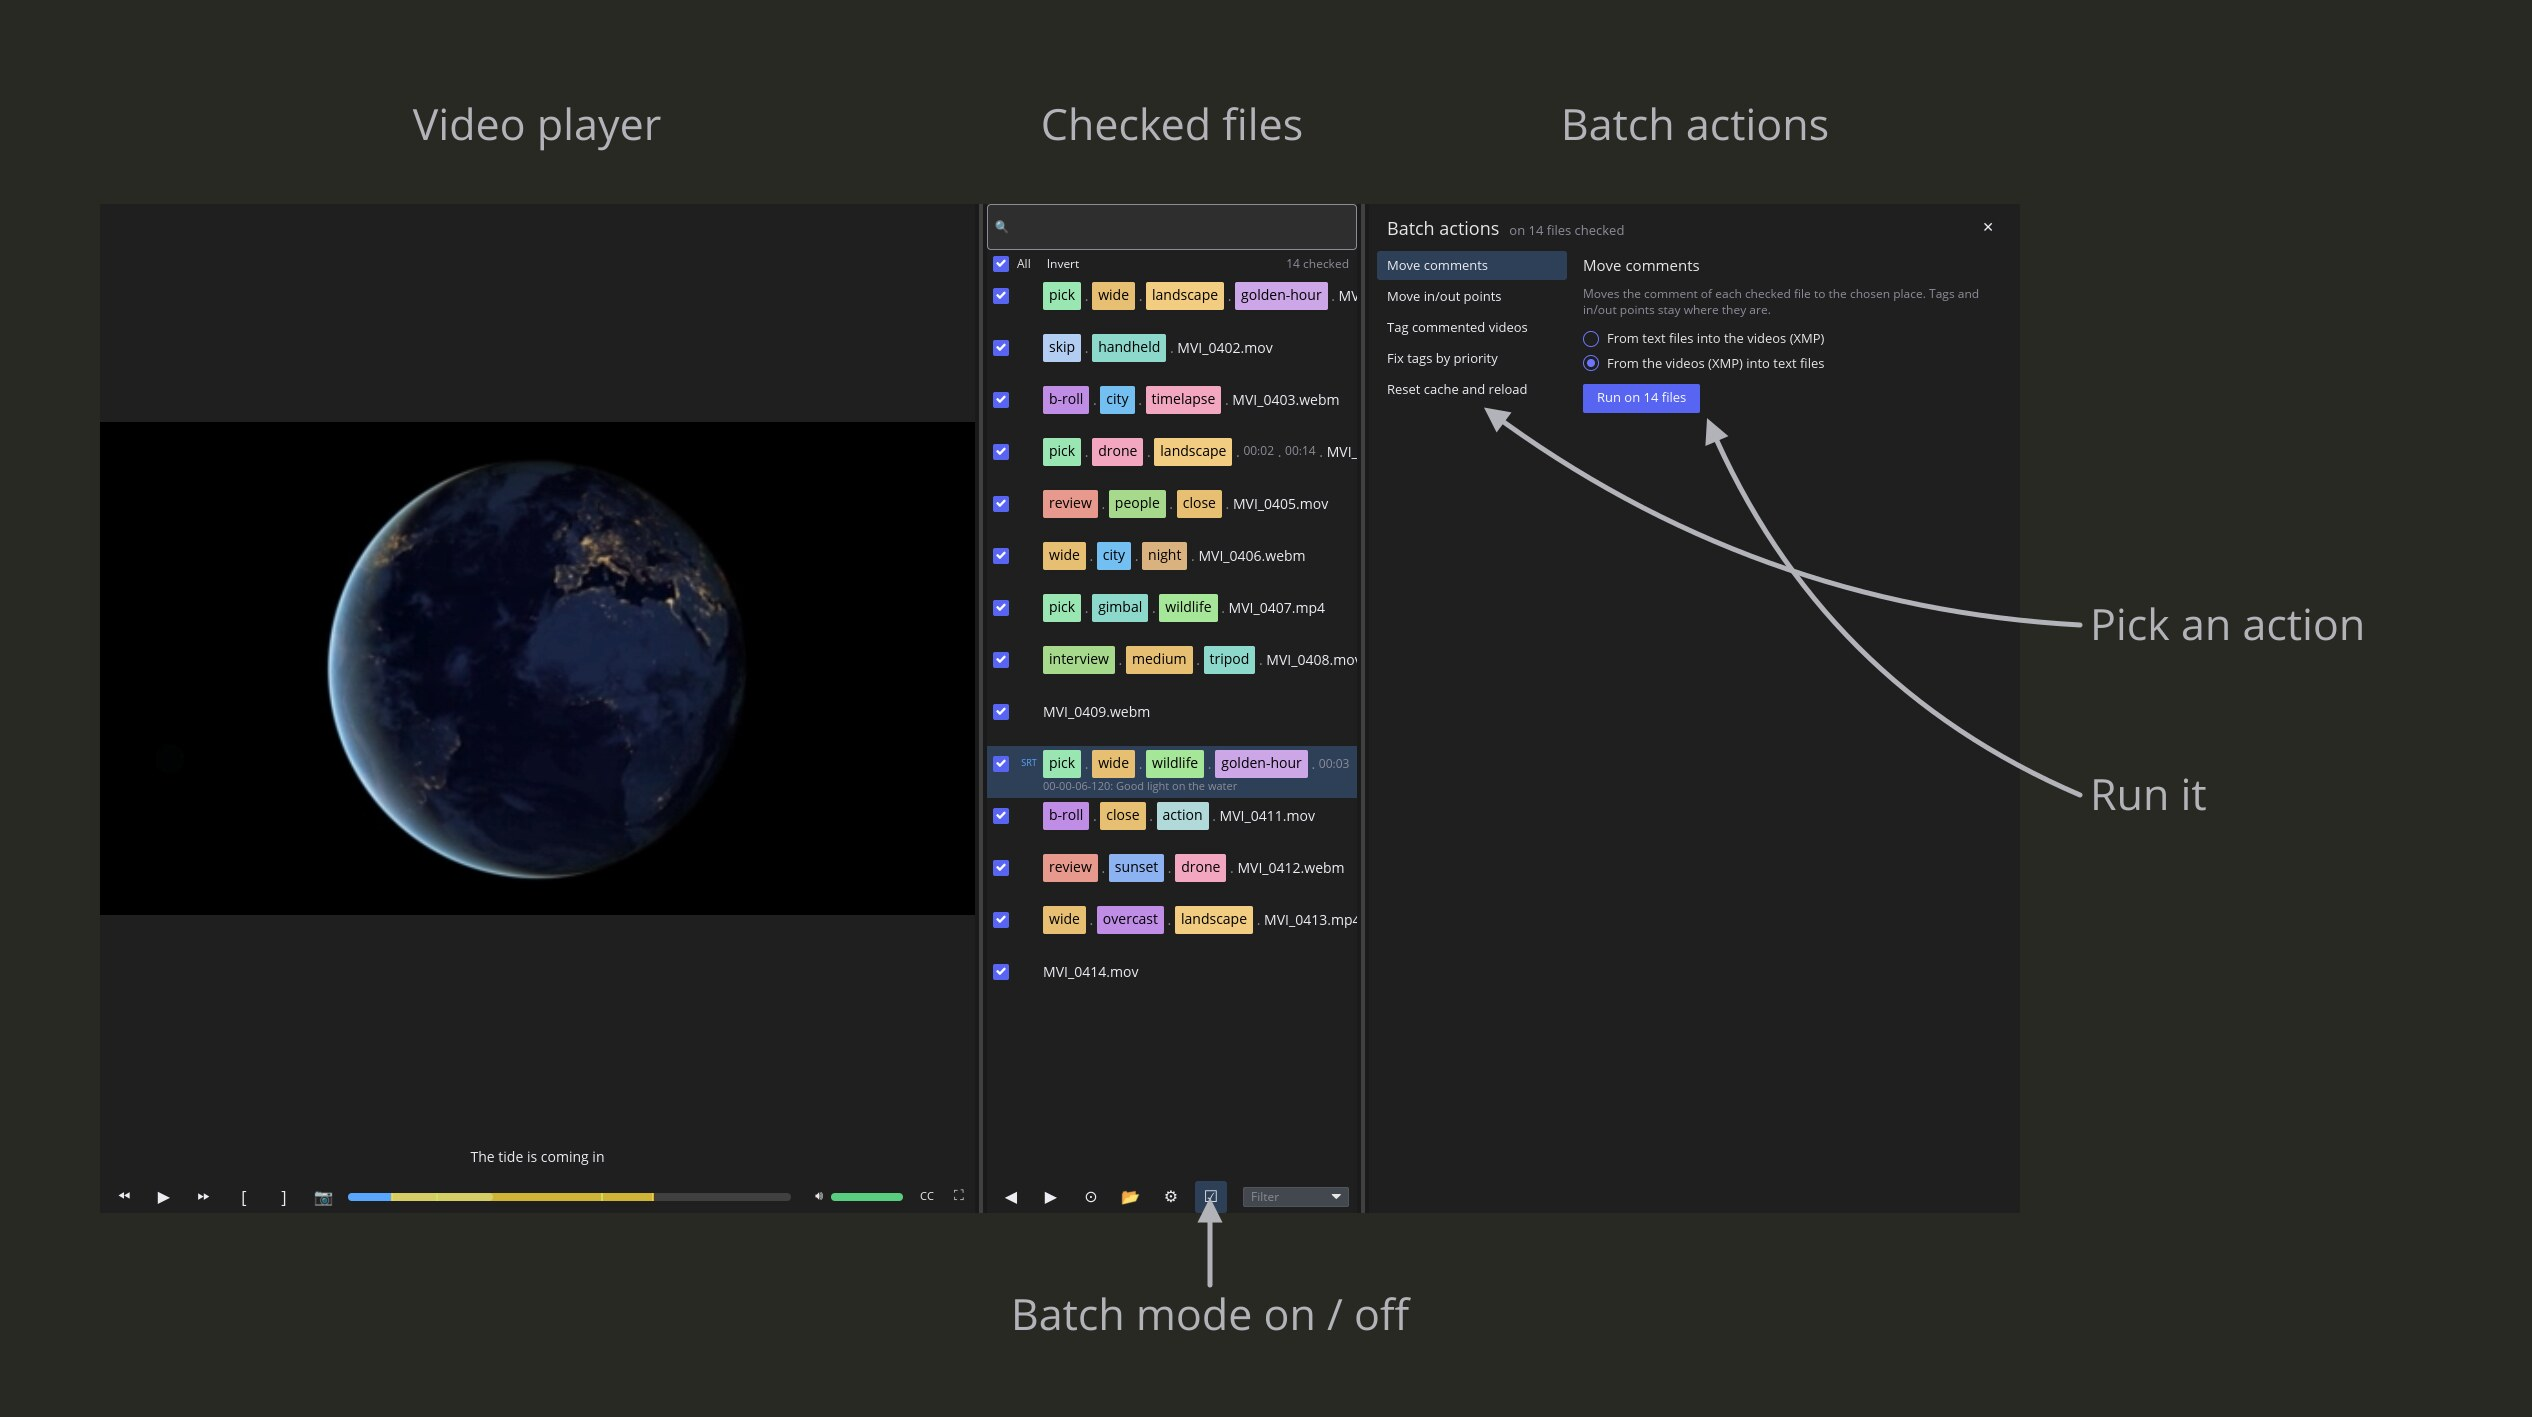
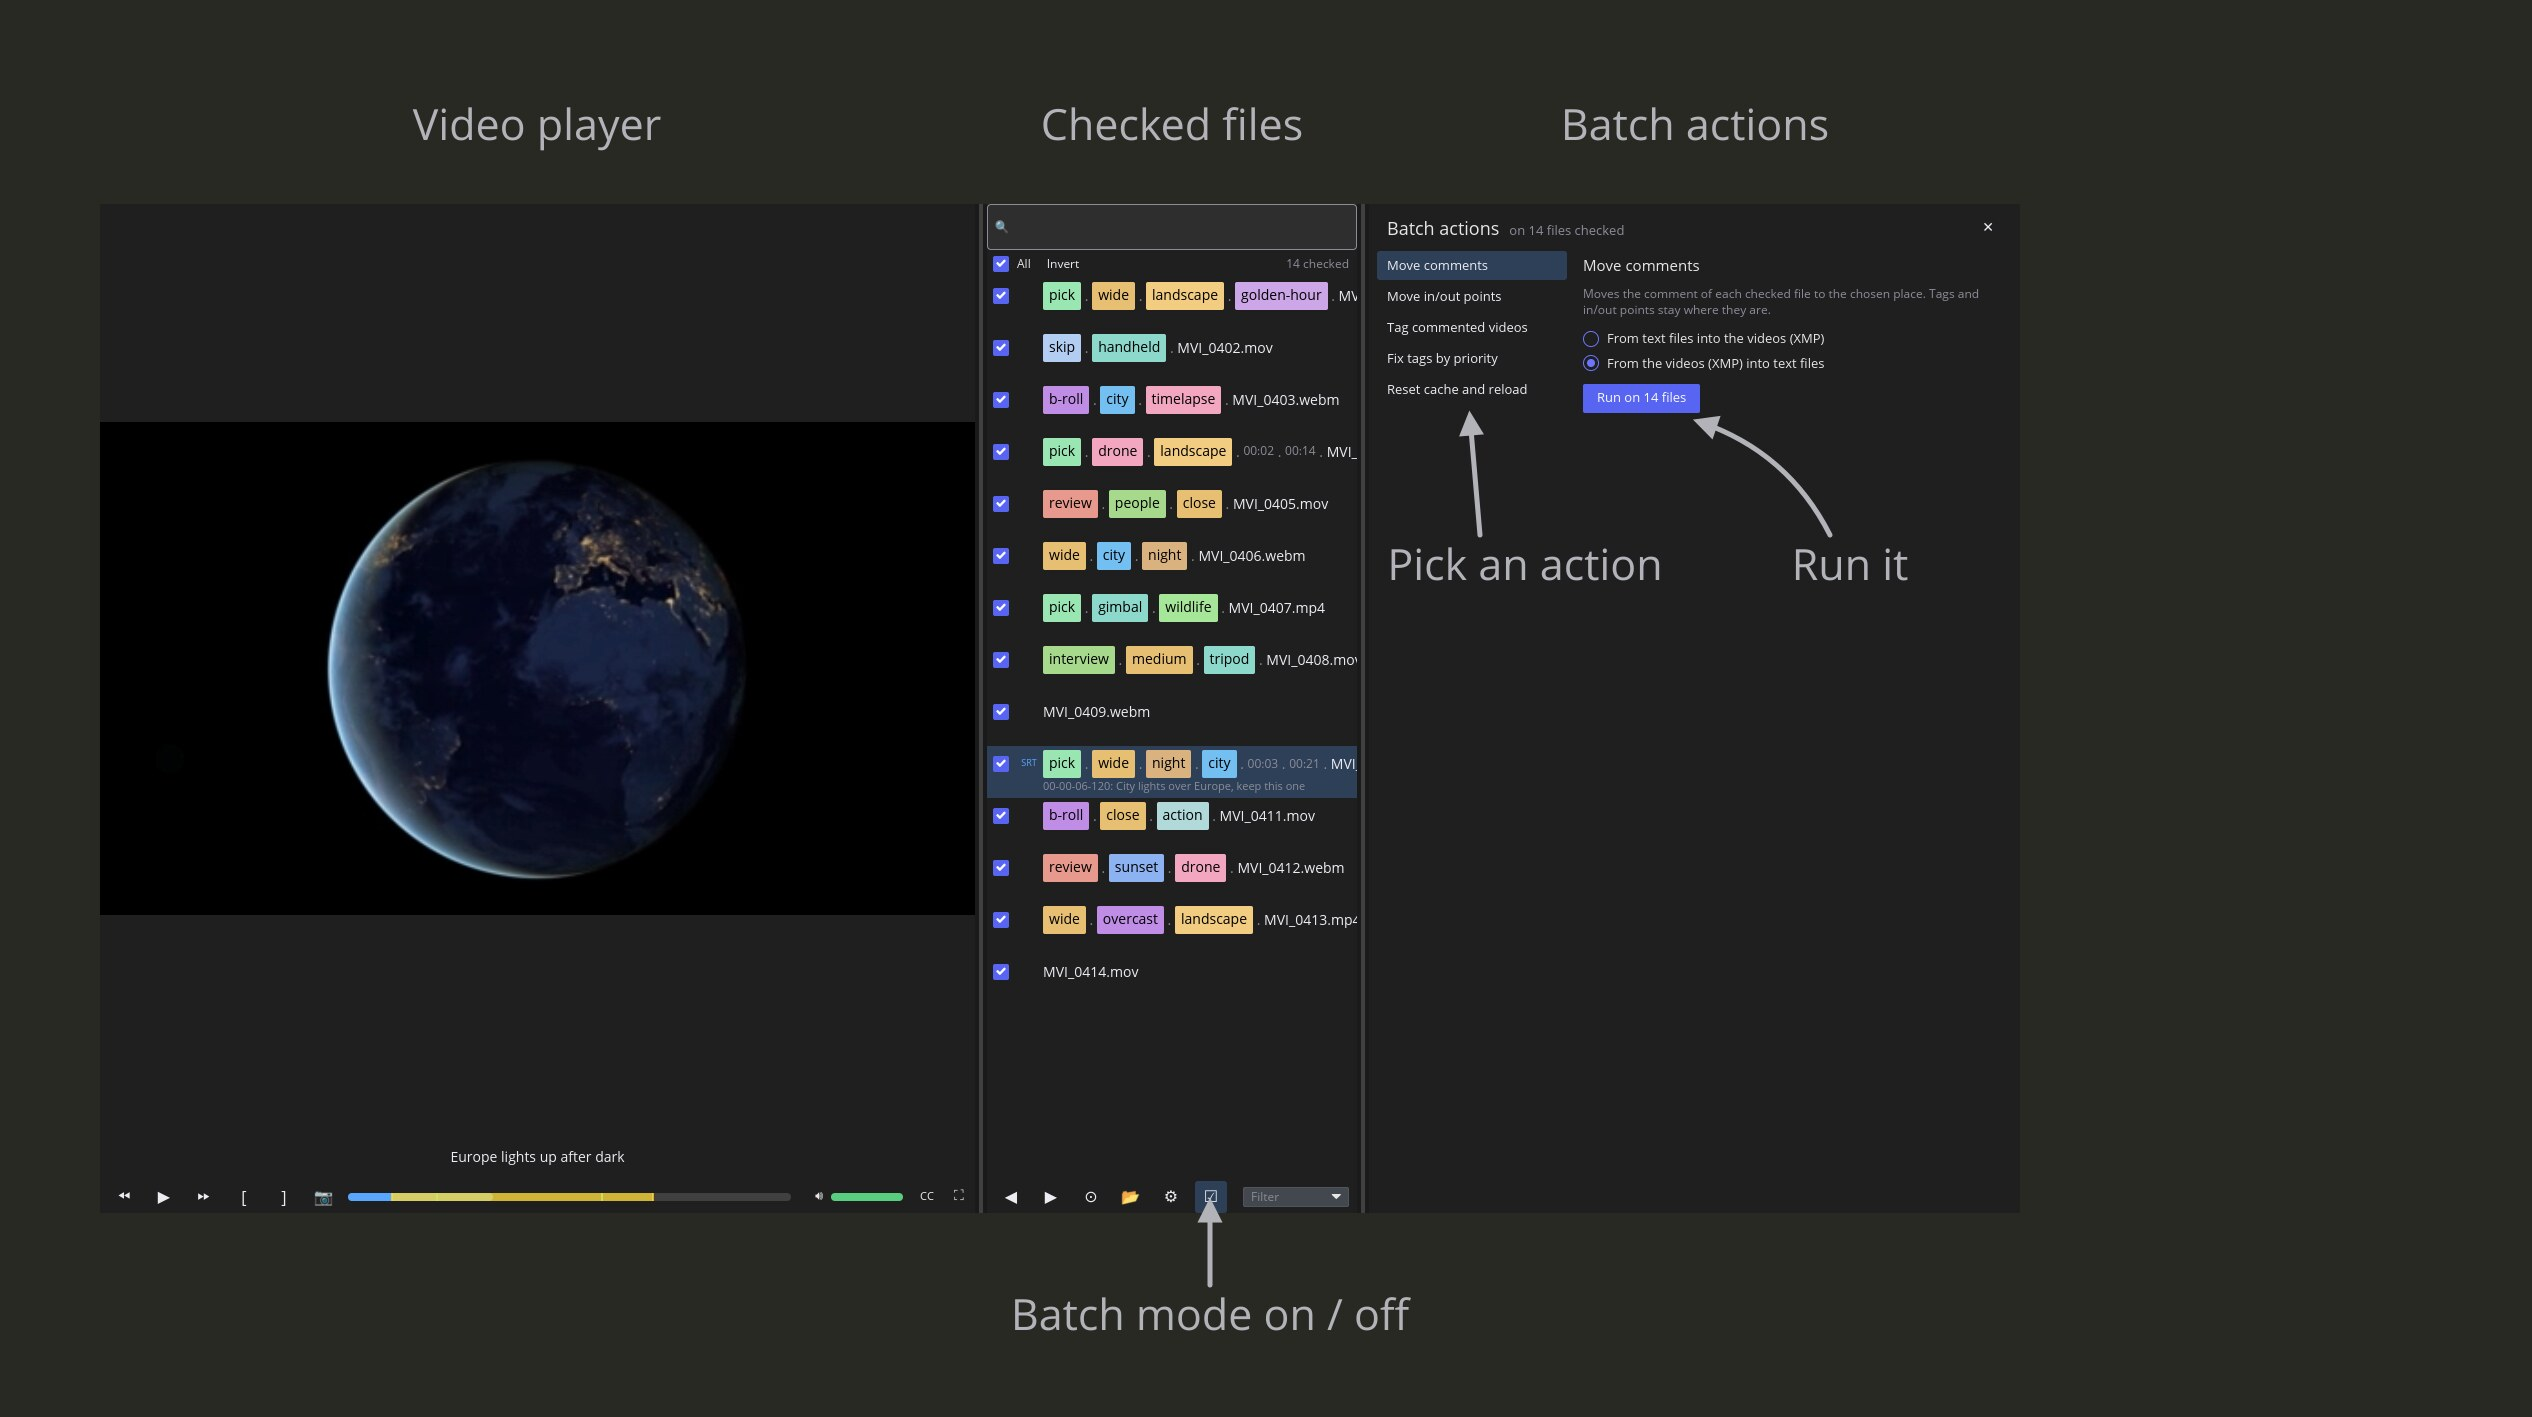
Demo content matches the clip; validate markers; publish job with write rights only
- The open clip is Earth at night: tags, comment and subtitle now say so.
- Main image labels subtitles and points at all tags; batch labels sit in the
  empty panel so their arrows are short and do not cross.
- Scenario check: marker times must be HH-MM-SS-mmm, and open must be a video;
  markers are named by the app's own screenshot_path.
- Workflow: the render job is read-only; a separate publish job on main holds
  the write rights. Tighter change threshold (0.01%), and a failing compare
  fails the step instead of keeping the old image.
- The demo's temp folder is removed when setting up the scenario fails.

Refs #14

Claude-Session: https://claude.ai/code/session_01SLyh9Lrbpw83UeLyehHkZE

diff --git a/crates/frename-core/src/demo.rs b/crates/frename-core/src/demo.rs
@@ -53,7 +53,7 @@ pub struct DemoFile {
     /// Subtitles, saved as the `.srt` next to the copy.
     #[serde(default)]
     pub subtitles: Option<String>,
-    /// Screenshot marker times, `HH-MM-SS-mmm`.
+    /// Screenshot marker times, `HH-MM-SS-mmm` (as in a screenshot's file name).
     #[serde(default)]
     pub snaps: Vec<String>,
 }
@@ -93,6 +93,16 @@ impl DemoScenario {
                     return Err(DemoError(format!("not a plain file name: {name:?}")));
                 }
             }
+            if let Some(bad) = file
+                .snaps
+                .iter()
+                .find(|at| crate::Screenshot::parse_time(at).is_none())
+            {
+                return Err(DemoError(format!(
+                    "{:?}: screenshot time {bad:?} is not HH-MM-SS-mmm",
+                    file.name
+                )));
+            }
             if !file.snaps.is_empty() && self.snap_image.is_none() {
                 return Err(DemoError(format!(
                     "{:?} has screenshot markers but the scenario has no snap_image",
@@ -110,6 +120,14 @@ impl DemoScenario {
                 "open = {:?} is not one of the staged files",
                 self.open
             )));
+        }
+        // The demo waits for the video to be ready before it takes the screenshot.
+        let extension = Path::new(&self.open)
+            .extension()
+            .and_then(|e| e.to_str())
+            .unwrap_or_default();
+        if crate::FileKind::from_extension(extension) != crate::FileKind::Video {
+            return Err(DemoError(format!("open = {:?} is not a video", self.open)));
         }
         let mut sorted: Vec<&str> = names.collect();
         sorted.sort_unstable();
@@ -149,11 +167,12 @@ pub fn stage(
             std::fs::write(crate::subtitle_path(&target), subtitles)?;
         }
         for at in &file.snaps {
-            // Checked by `DemoScenario::check`.
+            // Both checked by `DemoScenario::check`.
             let image = scenario.snap_image.as_deref().unwrap_or_default();
+            let position_ms = crate::Screenshot::parse_time(at).unwrap_or_default();
             std::fs::copy(
                 source.join(image),
-                into.join(format!("{}.snap.{at}.jpg", file.name)),
+                crate::tags::production_file_tagger::screenshot_path(&target, position_ms),
             )?;
         }
     }
@@ -235,6 +254,27 @@ name = "pick.a.mp4"
         let text = MINIMAL.replace("[[files]]", "snap_image = \"s.jpg\"\n[[files]]")
             + "snaps = [\"00-00-01-000\"]\n";
         assert!(DemoScenario::parse(&text).is_ok());
+    }
+
+    #[test]
+    fn marker_times_must_be_screenshot_times() {
+        let with_snaps = |snaps: &str| {
+            MINIMAL.replace("[[files]]", "snap_image = \"s.jpg\"\n[[files]]")
+                + &format!("snaps = [{snaps}]\n")
+        };
+        assert!(DemoScenario::parse(&with_snaps("\"00-00-06-120\"")).is_ok());
+        for bad in ["\"00:00:06\"", "\"../x\"", "\"6\""] {
+            assert!(DemoScenario::parse(&with_snaps(bad)).is_err(), "{bad}");
+        }
+    }
+
+    #[test]
+    fn only_a_video_can_be_opened() {
+        let text = MINIMAL.replace("pick.a.mp4", "pick.a.jpg");
+        assert!(DemoScenario::parse(&text)
+            .unwrap_err()
+            .0
+            .contains("not a video"));
     }
 
     #[test]

diff --git a/src/app/state.rs b/src/app/state.rs
@@ -397,13 +397,12 @@ impl FrenameApp {
                     .folder_workspace
                     .update(msg)
                     .map(Message::FolderWorkspace);
-                if let Some((steps, capture)) = video_ready
-                    .then(|| {
-                        let main_window = self.main_window;
-                        self.demo.as_mut().and_then(|d| d.video_ready(main_window))
-                    })
-                    .flatten()
-                {
+                let main_window = self.main_window;
+                let demo_steps = match self.demo.as_mut() {
+                    Some(demo) if video_ready => demo.video_ready(main_window),
+                    _ => None,
+                };
+                if let Some((steps, capture)) = demo_steps {
                     let steps = steps
                         .into_iter()
                         .map(|step| Task::done(Message::FolderWorkspace(step)));

diff --git a/src/main.rs b/src/main.rs
@@ -118,7 +118,13 @@ fn main() -> Result<(), Box<dyn std::error::Error>> {
 
     let demo_work = demo.as_ref().map(|(_, _, work)| work.clone());
     let demo = match demo {
-        Some((scenario, out, work)) => Some(demo::prepare(&scenario, out, work)?),
+        Some((scenario, out, work)) => match demo::prepare(&scenario, out, work.clone()) {
+            Ok(run) => Some(run),
+            Err(e) => {
+                let _ = std::fs::remove_dir_all(&work);
+                return Err(e.into());
+            }
+        },
         None => None,
     };
 

diff --git a/crates/frename-core/src/tags/production_file_tagger.rs b/crates/frename-core/src/tags/production_file_tagger.rs
@@ -16,7 +16,7 @@ pub struct ProductionFileTagger;
 // Sidecar path helpers (private)
 // ---------------------------------------------------------------------------
 
-fn screenshot_path(file_path: &Path, position_ms: u64) -> PathBuf {
+pub(crate) fn screenshot_path(file_path: &Path, position_ms: u64) -> PathBuf {
     let file_name = file_path.file_name().and_then(|n| n.to_str()).unwrap_or("");
     let time_str = Screenshot::new(position_ms).format_time();
     let sidecar_name = format!("{}.snap.{}.jpg", file_name, time_str);

diff --git a/crates/frename-core/src/tags/mod.rs b/crates/frename-core/src/tags/mod.rs
@@ -8,7 +8,7 @@ mod file_tagger_logging;
 mod folder_info;
 mod folder_tag_store;
 mod in_memory_file_tagger;
-mod production_file_tagger;
+pub(crate) mod production_file_tagger;
 mod screenshot;
 mod stored_tag;
 mod tag;
